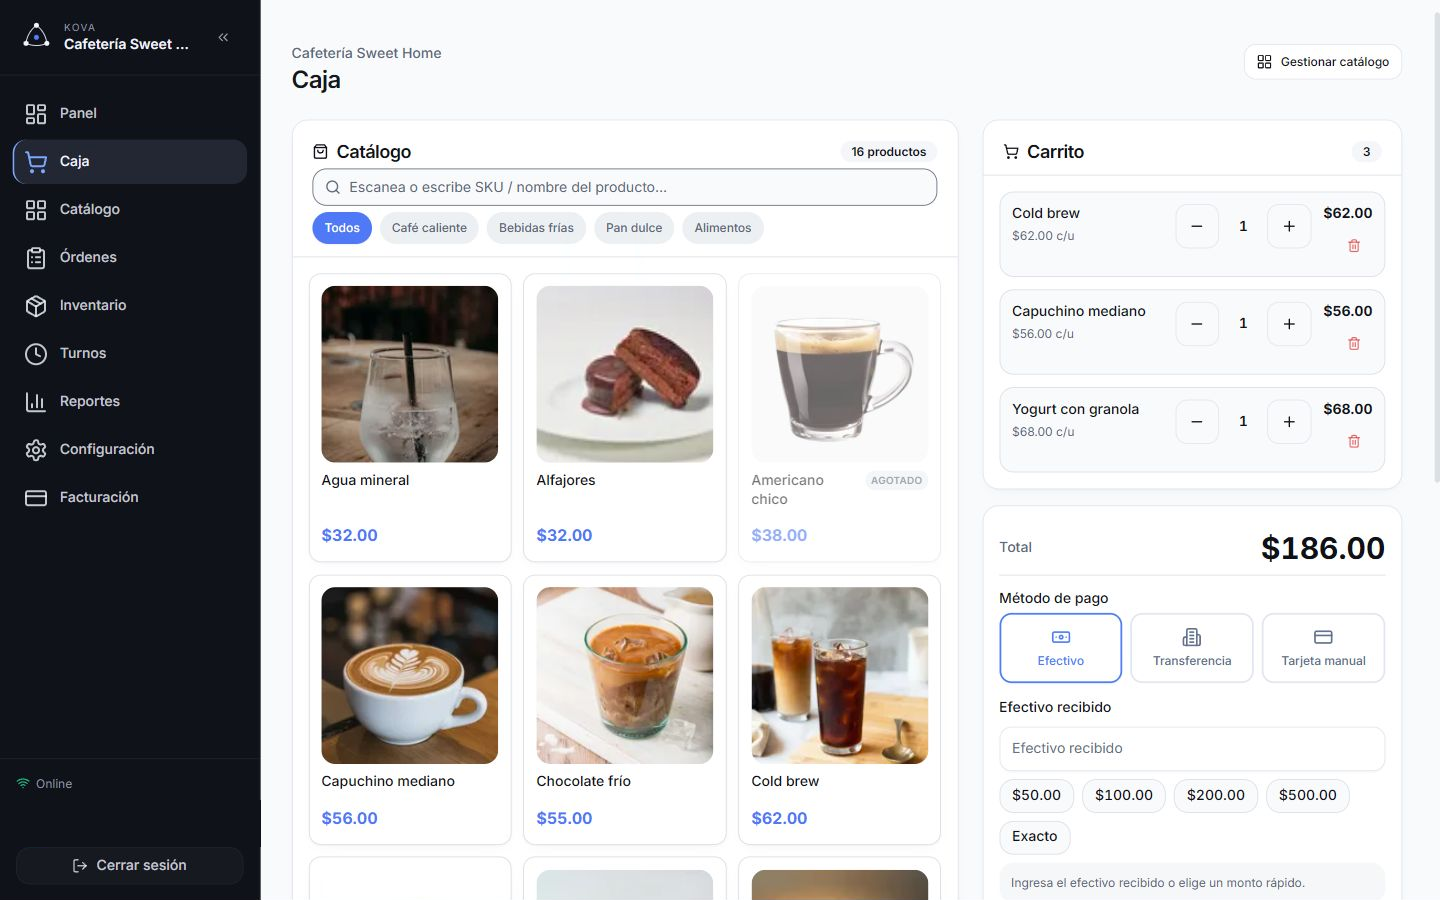
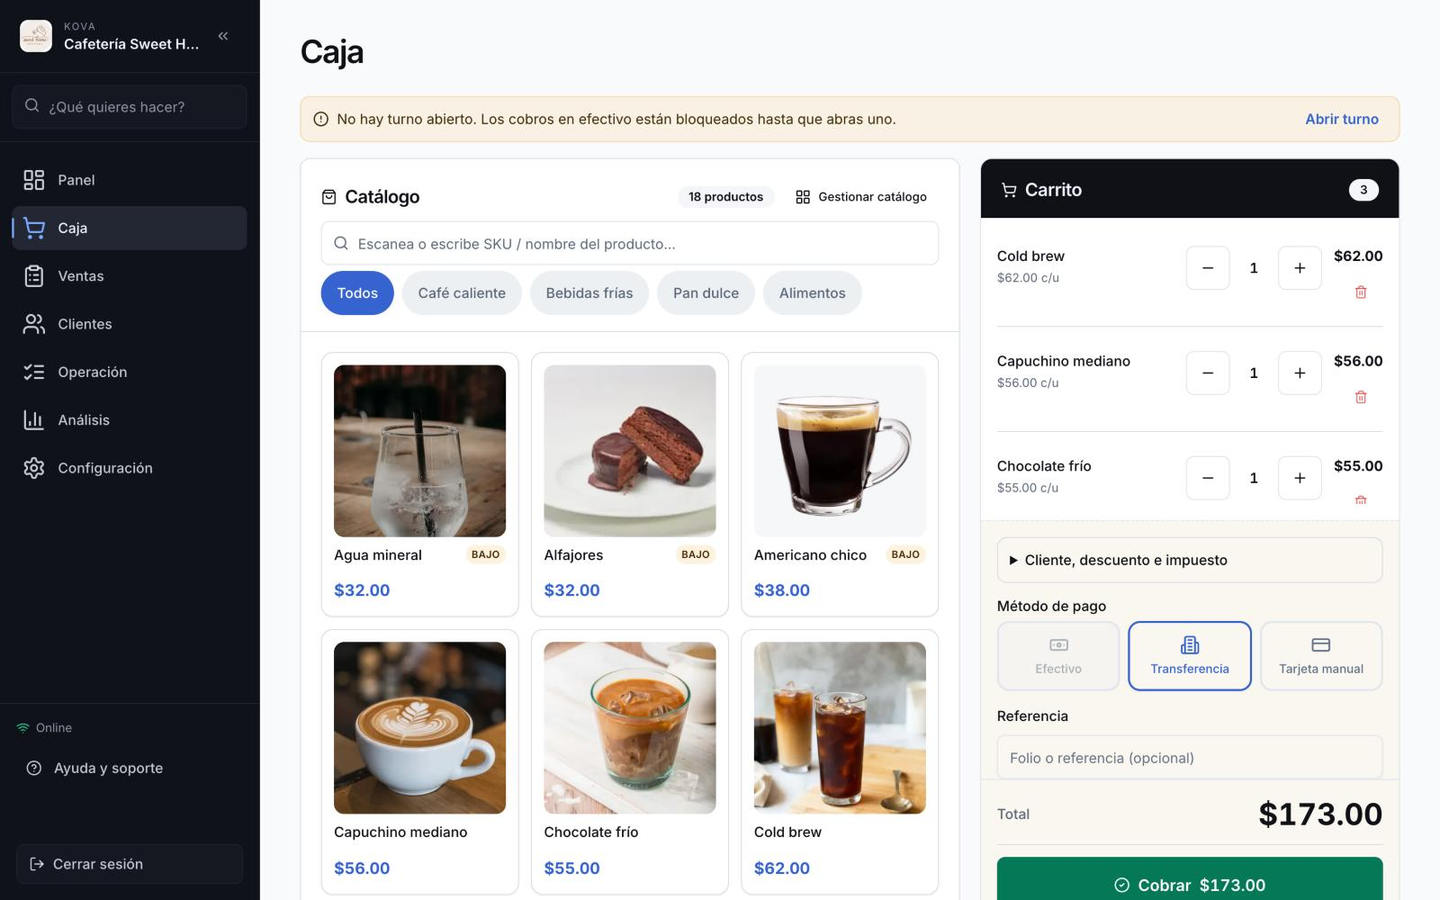
feat(showcase): capturas reales del diseño actual en escritorio y móvil
Reemplaza las capturas de la landing (Caja, Inventario, Turnos, Análisis
y las tres historias) por vistas actuales del tenant de prueba, tomadas
en producción sólo lectura y sin correos visibles. Agrega capturas de
teléfono en showcase/mobile/ y actualiza las fotos de producto.

El script de captura ahora oculta el correo con una hoja de estilo,
revisa sólo texto realmente visible, tolera productos sin foto y calcula
el total del carrito con precios reales.

diff --git a/frontend/public/showcase/README.md b/frontend/public/showcase/README.md
@@ -11,7 +11,7 @@ Para regenerar las imágenes, desde `frontend/` define `KOVA_CAPTURE_EMAIL` y `K
 El script:
 
 - conserva el AppShell completo y oculta el área de cuenta;
-- prepara localmente, sin cobrar, Cold brew + Capuchino mediano + Yogurt con granola = $186;
+- prepara localmente, sin cobrar, Cold brew + Capuchino mediano + Yogurt con granola y espera el total calculado con los precios reales;
 - bloquea cualquier request de escritura después del inicio de sesión (la telemetría se descarta para no contar la captura como uso);
 - marca como vistos los recorridos de primer uso, que sólo viven en `localStorage`, para que no tapen Caja;
 - espera encabezados, fuentes e imágenes antes de capturar;
@@ -20,3 +20,5 @@ El script:
 - extrae a `products/` las fotografías usadas por la demo local.
 
 Antes de publicar, revisar visualmente las cuatro capturas. No deben contener correos, nombres de personas, identificadores privados ni datos de clientes. Nunca pulsar `Cobrar`, `Cerrar turno`, `Ajustar`, `Aplicar` ni ninguna acción de escritura durante la captura.
+
+Las capturas de 2026-10-23 se tomaron en producción, sólo lectura, desde el navegador integrado: escritorio a 1440×900 (`*.png`), historias de la landing a 3200×1800 (`*-story.jpeg`, `sale-register.jpeg`) y teléfono a 1125×2436 en `mobile/`. La carpeta `mobile/` aún no está conectada a la landing.
